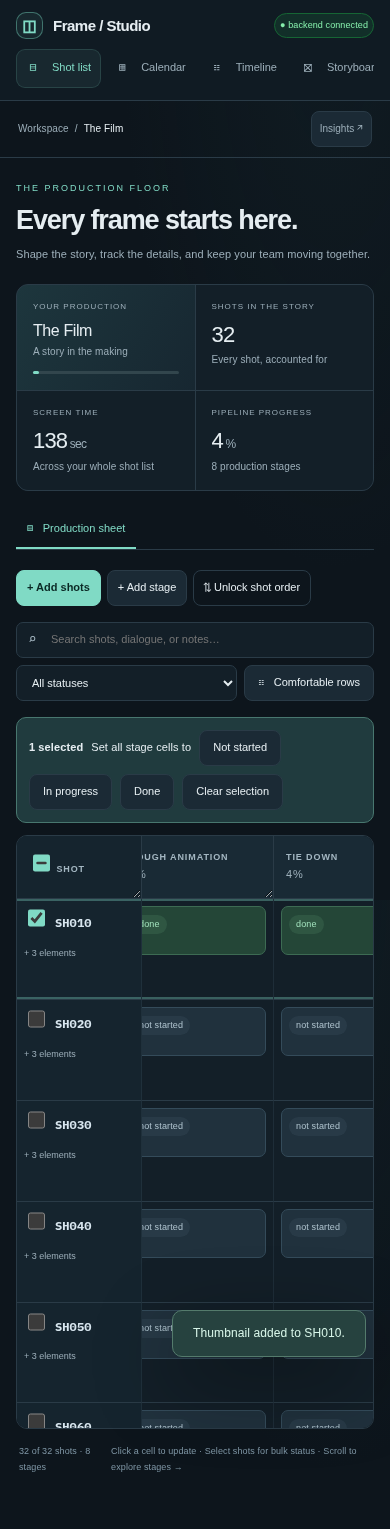
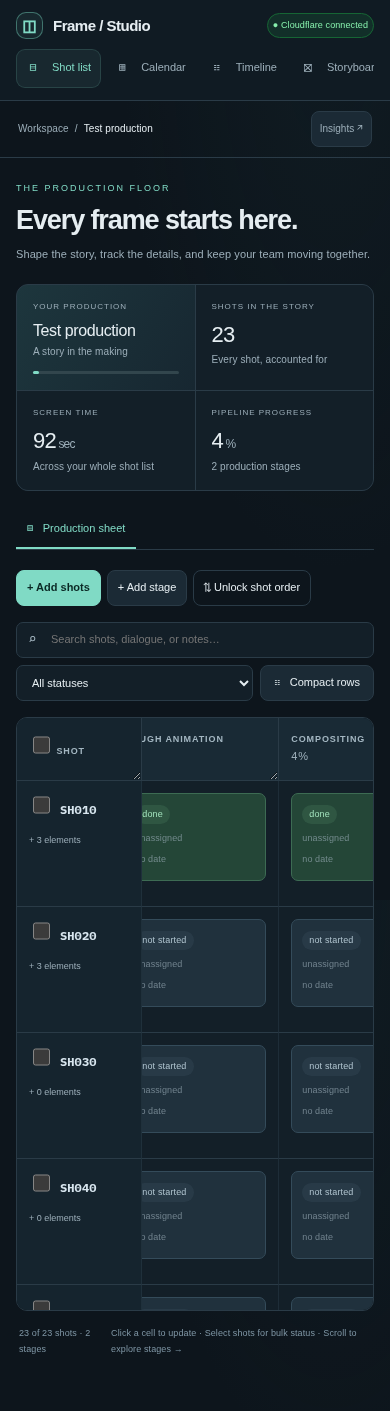
Synchronize workspace edits and storyboard imports through existing Cloudflare API

diff --git a/static/workspace-sync.js b/static/workspace-sync.js
@@ -1,0 +1,133 @@
+/* Use the existing authenticated Cloudflare client for both workspace and imports.
+   No Worker routes, authentication, or request schemas are changed. */
+(() => {
+  'use strict';
+  let saves = Promise.resolve();
+  let saveFailed = false;
+  const pendingKey = LS_KEY + '-unsynced';
+  const pending = () => {
+    try { return JSON.parse(localStorage.getItem(pendingKey)); } catch { return null; }
+  };
+  const cache = workspace => {
+    try { localStorage.setItem(LS_KEY, JSON.stringify(workspace)); }
+    catch { /* Cloudflare remains the source of truth if browser storage is full. */ }
+  };
+  const status = (message, ok) => {
+    const el = document.getElementById('backendStatus');
+    if (!el) return;
+    el.textContent = message;
+    el.className = ok ? 'ok' : 'bad';
+    el.title = message;
+  };
+  const validWorkspace = data => data && Array.isArray(data.shots) &&
+    Array.isArray(data.stages) && Array.isArray(data.people) &&
+    data.project && typeof data.cells === 'object' && data.cells !== null;
+
+  loadState = async function() {
+    try {
+      const data = await API.getWorkspace();
+      if (!data || (data.empty !== true && !validWorkspace(data))) {
+        throw new Error('Workspace response is incomplete');
+      }
+      backendOK = true;
+      saveFailed = false;
+      if (data.empty === true) {
+        // Opening an empty account must not create sample shots on the server.
+        const empty = seed();
+        empty.shots = [];
+        empty.cells = {};
+        status('● Cloudflare connected', true);
+        return empty;
+      }
+      cache(data);
+      status(pending() ? '● Cloud connected · local backup available' : '● Cloudflare connected', true);
+      return data;
+    } catch (error) {
+      backendOK = false;
+      status('● Local only · cloud unavailable', false);
+      console.warn('[workspace] Cloudflare load failed; using local cache:', error.message);
+      try {
+        const cached = pending() || JSON.parse(localStorage.getItem(LS_KEY));
+        if (validWorkspace(cached)) return cached;
+      } catch {}
+      const empty = seed();
+      empty.shots = [];
+      empty.cells = {};
+      return empty;
+    }
+  };
+
+  saveState = function(workspace = state) {
+    // Snapshot now: later UI mutations must not change a queued request's contents.
+    const snapshot = JSON.parse(JSON.stringify(workspace));
+    const serialized = JSON.stringify(snapshot);
+    try { localStorage.setItem(pendingKey, serialized); } catch {}
+    cache(snapshot);
+    if (!backendOK || saveFailed) {
+      status('● Saved locally · cloud not synced', false);
+      return Promise.resolve(false);
+    }
+    status('● Saving to Cloudflare…', true);
+    saves = saves.then(async () => {
+      if (saveFailed) return false;
+      try {
+        const result = await API.saveWorkspace(snapshot);
+        if (!result || result.ok !== true) throw new Error('Workspace save was not confirmed');
+        try {
+          if (localStorage.getItem(pendingKey) === serialized) localStorage.removeItem(pendingKey);
+        } catch {}
+        status('● Saved to Cloudflare', true);
+        return true;
+      } catch (error) {
+        saveFailed = true;
+        backendOK = false;
+        status('● Save failed · local copy retained', false);
+        console.warn('[workspace] Cloudflare save failed:', error.message);
+        return false;
+      }
+    });
+    return saves;
+  };
+
+  const commit = API.commit.bind(API);
+  API.commit = async function(id, options) {
+    // Prevent edits being queued against the old workspace while import commits.
+    const wasInert = document.body.inert;
+    document.body.inert = true;
+    document.body.setAttribute('aria-busy', 'true');
+    try {
+      await saves;
+      if (saveFailed || pending()) throw new Error('Workspace changes have not synced. Download your local backup before resolving the connection and importing.');
+      const result = await commit(id, options);
+      if (result.ok && validWorkspace(result.workspace)) {
+        state = result.workspace;
+        cache(state);
+        backendOK = true;
+        status('● Storyboard imported · cloud synced', true);
+      }
+      return result;
+    } finally {
+      document.body.inert = wasInert;
+      document.body.removeAttribute('aria-busy');
+    }
+  };
+  window.addEventListener('DOMContentLoaded', () => {
+    const button = document.createElement('button');
+    button.textContent = 'Download local backup';
+    button.title = 'Download edits that could not be saved to Cloudflare';
+    button.hidden = !pending();
+    button.onclick = () => {
+      const data = pending();
+      if (!data) return;
+      const url = URL.createObjectURL(new Blob([JSON.stringify(data, null, 2)], {type:'application/json'}));
+      const link = document.createElement('a');
+      link.href = url;
+      link.download = 'production-workspace-unsynced.json';
+      link.click();
+      setTimeout(() => URL.revokeObjectURL(url), 1000);
+    };
+    document.querySelector('.topbar-actions')?.prepend(button);
+    const observer = new MutationObserver(() => { button.hidden = !pending(); });
+    observer.observe(document.getElementById('backendStatus'), {childList:true});
+  });
+})();

diff --git a/index.html b/index.html
@@ -1057,6 +1057,7 @@ window.addEventListener('DOMContentLoaded', async () => {
      IMPORT WIZARD (loaded from /static/app.js)
      ============================================================ -->
 <script src="static/app.js"></script>
+<script src="static/workspace-sync.js"></script>
 <script src="static/workspace-ui.js"></script>
 
 </body>

diff --git a/docs/UI-REVIEW.md b/docs/UI-REVIEW.md
@@ -17,11 +17,15 @@ This checkout was cloned from `Josephsjr96/Animating-platform` before any edits.
 
 ## Backend boundary
 
-`server/`, `static/app.js`, `static/style.css`, and `.github/` are unchanged from the cloned revision. `index.html` adds only two resource references. The new CSS and JavaScript are an additive layer; removing those references restores the original UI.
+`server/`, `static/app.js`, `static/style.css`, and `.github/` are unchanged from the cloned revision. `index.html` adds only three resource references. The new CSS and JavaScript are an additive layer; removing those references restores the original UI.
 
-No Worker deployment, migration, secret, production workspace, API URL, authentication method, request field, or existing API-client implementation was changed. The new scan queue calls the existing `API.scan(file)` one page at a time; review and commit still run through the original wizard. Workspace edits use the original persistence functions and data structure.
+No Worker deployment, migration, secret, production workspace, API URL, authentication method, request field, or existing API-client implementation was changed. The new scan queue calls the existing `API.scan(file)` one page at a time; review and commit still run through the original wizard. Workspace edits retain the original data structure and use the existing authenticated Cloudflare client through an additive synchronization adapter.
 
-The original workspace persistence uses same-origin `/api/workspace` with a local-cache fallback, while storyboard import uses the Cloudflare API client. This existing distinction is preserved. A plain static preview therefore shows the local/cache workspace, and does not prove authenticated Cloudflare synchronization. No production key was needed or used for testing.
+The original workspace persistence used same-origin `/api/workspace`, which does not reach Cloudflare on GitHub Pages. `static/workspace-sync.js` now routes workspace reads and writes through the same existing `API.getWorkspace` / `API.saveWorkspace` client used by imports. Requests retain the original API URLs, authentication header and workspace schema.
+
+Opening an account performs no writes and does not populate the server with sample shots. Saves are serialized with immutable snapshots. Import commits wait for pending saves, temporarily prevent further UI edits, and adopt the returned workspace. Failed or offline edits are retained under a separate browser-storage key, with a **Download local backup** action. The adapter never automatically uploads an offline cache or merges it over the cloud workspace on reconnect. Cross-tab and multi-user concurrent editing remain outside this change; the existing whole-workspace API has no added revision control.
+
+No production workspace key was needed or used for testing. A live unauthenticated OPTIONS request confirmed that the Worker permits GET/POST from `https://josephsjr96.github.io` with the existing `X-Workspace-Key` and `Content-Type` headers. This checks CORS, not authenticated scanning or persistence.
 
 ## PDF scope requiring separate work
 
@@ -29,7 +33,7 @@ The PDF also proposes real-time chat/video, multiple assignees per task, arbitra
 
 ## Validation
 
-`tests/ui.mjs` uses Playwright with all `/api/` traffic intercepted, including Cloudflare requests. Tests exercise shot editing, status changes, thumbnails, ordering, scheduling, single-page UI preservation, batch scanning, original review/commit calls, and layout at 390, 768, 1024, and 1440 pixels. See `screenshots/validation.json` and the accompanying screenshots. This verifies frontend behavior and request compatibility with fixtures, not live OCR quality, live backend performance, or a production import.
+`tests/ui.mjs` uses Playwright with all `/api/` traffic intercepted, including Cloudflare requests. 52 browser checks exercise shot editing, status changes, thumbnails, ordering, scheduling, single-page UI preservation, batch scanning, original review/commit calls, and layout at 390, 768, 1024, and 1440 pixels. See `screenshots/validation.json` and the accompanying screenshots. This verifies frontend behavior and request compatibility with fixtures, not live OCR quality, live backend performance, or a production import.
 
 Run a static preview with `python -m http.server 4182 --bind 127.0.0.1`. Then, with Playwright available:
 
@@ -37,6 +41,12 @@ Run a static preview with `python -m http.server 4182 --bind 127.0.0.1`. Then, w
 PLAYWRIGHT_MODULE=/path/to/playwright/index.mjs node tests/ui.mjs
 ```
 
-Tests default to `/usr/bin/chromium`; override `CHROMIUM_PATH` when needed. No packages were added to the application.
+Tests default to `/usr/bin/chromium`; override `CHROMIUM_PATH` when needed. Five additional persistence tests cover no-write startup, ordered save snapshots, failure recovery, import/save ordering, and authentication fallback:
 
-The review branch does not trigger the existing main-only Pages deployment. Production publication should be a separate reviewed step.
+```bash
+node tests/workspace-sync.mjs
+```
+
+No packages were added to the application.
+
+The existing main-only GitHub Pages workflow publishes the frontend when this branch is merged. It does not deploy or modify the Cloudflare Worker.
